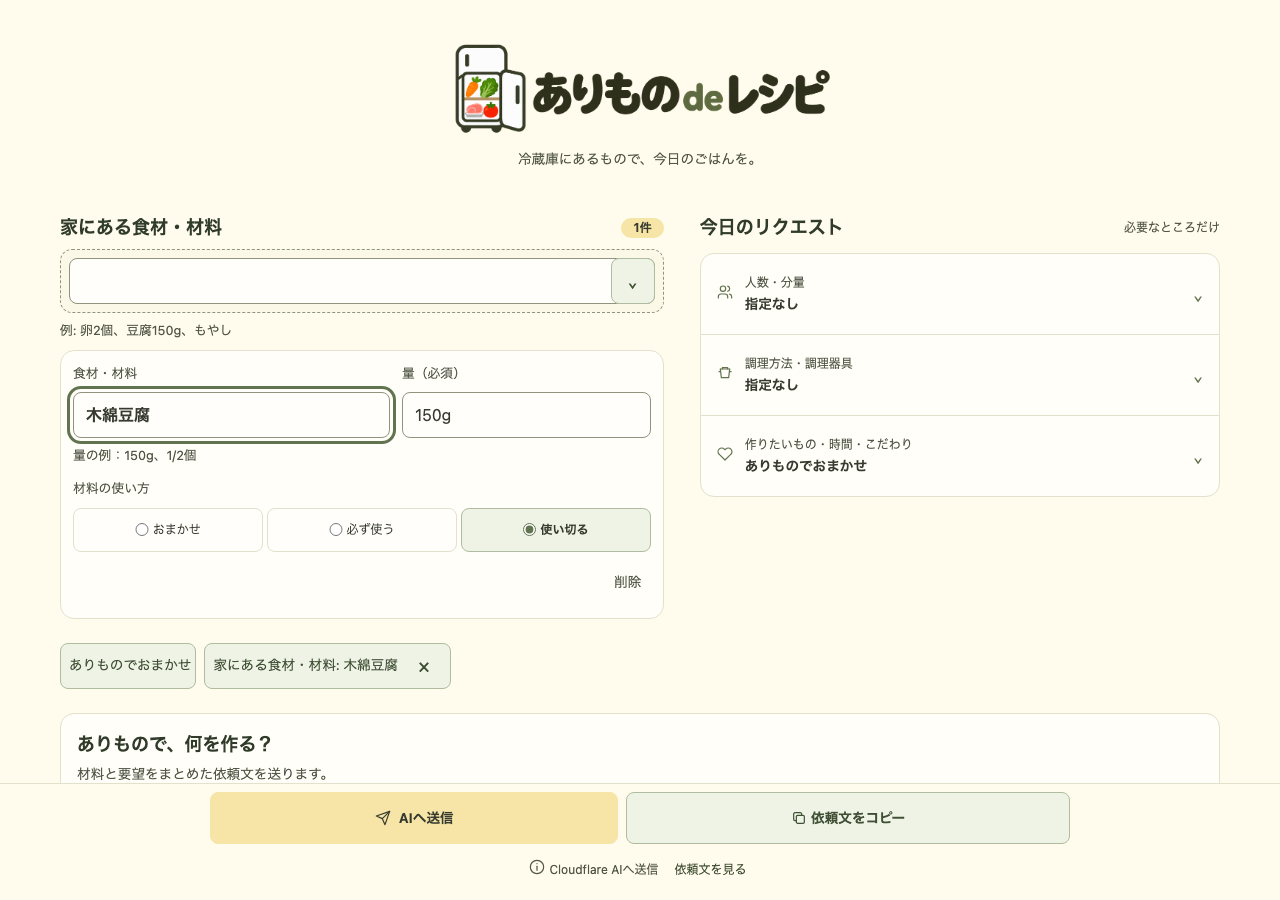
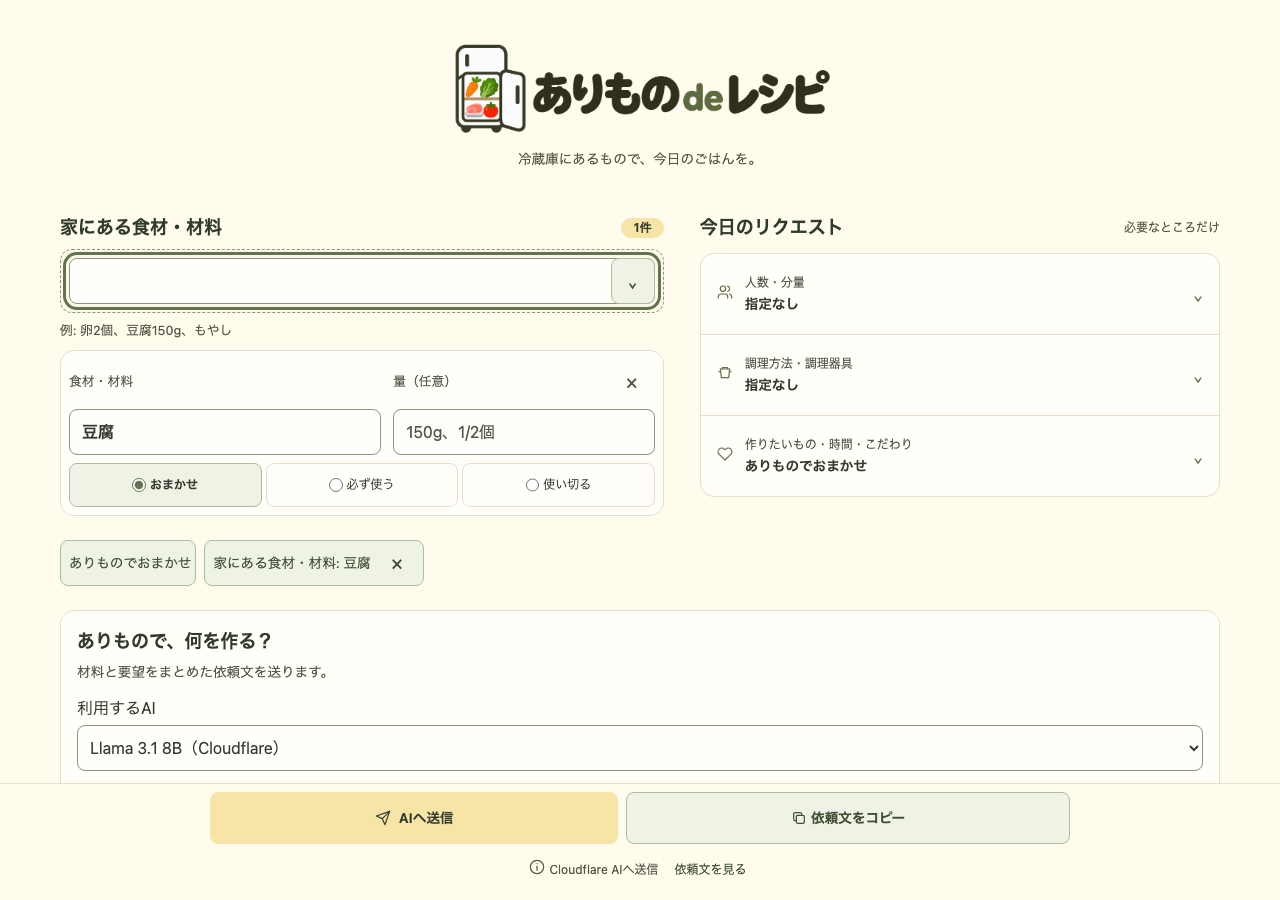
Compact material cards with quantity placeholders and corner removal

diff --git a/tests/e2e/form-layout.spec.ts b/tests/e2e/form-layout.spec.ts
@@ -18,26 +18,47 @@ for (const [width, fontSize] of [
     const card = page.getByTestId(/^material-card-/);
     const name = card.getByTestId("combo-pill-label-materials");
     const amount = card.getByTestId(/^material-amount-/);
-    const hint = card.getByTestId(/^material-example-/);
-    await expect(hint).toHaveText("量の例：150g、1/2個");
-    await expect(amount).toHaveAccessibleDescription(/量の例：150g、1\/2個/);
-    await expect(amount).not.toHaveAttribute("placeholder");
+    await expect(amount).toHaveAttribute("placeholder", "150g、1/2個");
+    await expect(amount).toHaveAccessibleName("量（任意）");
+    expect(
+      await amount.evaluate((input) => {
+        const styles = getComputedStyle(input);
+        const canvas = document.createElement("canvas");
+        const context = canvas.getContext("2d");
+        if (!context) throw new Error("Canvas text measurement must be available");
+        context.font = styles.font;
+        // Native input clientWidth differs between engines; use its rendered border box.
+        const available =
+          input.getBoundingClientRect().width -
+          Number.parseFloat(styles.borderLeftWidth) -
+          Number.parseFloat(styles.borderRightWidth) -
+          Number.parseFloat(styles.paddingLeft) -
+          Number.parseFloat(styles.paddingRight);
+        return context.measureText(input.getAttribute("placeholder") ?? "").width <= available;
+      }),
+    ).toBe(true);
     const nameBox = await name.boundingBox();
     const amountBox = await amount.boundingBox();
     if (!nameBox || !amountBox) throw new Error("Both material fields must be visible");
     expect(Math.abs(nameBox.height - amountBox.height)).toBeLessThanOrEqual(1);
     expect(nameBox.height).toBeGreaterThanOrEqual(46);
+    const cardBox = await card.boundingBox();
+    const remove = card.getByRole("button", { name: "豆腐を材料から削除", exact: true });
+    const removeBox = await remove.boundingBox();
+    if (!cardBox || !removeBox) throw new Error("Card and delete target must be visible");
+    await expect(remove).toHaveText("×");
+    expect(removeBox.width).toBeGreaterThanOrEqual(44);
+    expect(removeBox.height).toBeGreaterThanOrEqual(44);
+    expect(removeBox.y - cardBox.y).toBeGreaterThanOrEqual(0);
+    expect(removeBox.y - cardBox.y).toBeLessThanOrEqual(12);
+    expect(cardBox.x + cardBox.width - removeBox.x - removeBox.width).toBeLessThanOrEqual(12);
+    expect(removeBox.y + removeBox.height).toBeLessThanOrEqual(nameBox.y);
+    if (fontSize === 16) expect(cardBox.height).toBeLessThanOrEqual(180);
     if (amountBox.x > nameBox.x + nameBox.width) {
       expect(Math.abs(nameBox.y - amountBox.y)).toBeLessThanOrEqual(1);
     } else {
       expect(amountBox.y).toBeGreaterThanOrEqual(nameBox.y + nameBox.height);
     }
-    expect(await hint.evaluate((element) => element.scrollWidth <= element.clientWidth + 1)).toBe(
-      true,
-    );
-    expect(await hint.evaluate((element) => element.scrollHeight <= element.clientHeight + 1)).toBe(
-      true,
-    );
     await amount.fill("150g");
     await name.click();
     const edit = page.getByTestId("combo-pill-edit-materials");
@@ -48,7 +69,7 @@ for (const [width, fontSize] of [
     await pressCommittedEnter(edit);
     await expect(amount).toHaveValue("150g");
     await expect(name).toHaveText("木綿豆腐");
-    await expect(hint).toBeVisible();
+    await expect(amount).toHaveAttribute("placeholder", "150g、1/2個");
     expect(await page.evaluate(() => document.documentElement.scrollWidth <= innerWidth)).toBe(
       true,
     );

diff --git a/src/ui.ts b/src/ui.ts
@@ -115,13 +115,11 @@ function syncMaterialRequestValidationState(state: RecipeSnapshot): void {
 
     if (input) {
       input.required = request.usage === "use-up";
-      input.setAttribute(
-        "aria-describedby",
-        `materialAmountHint-${request.id}${message ? ` materialAmountError-${request.id}` : ""}`,
-      );
       if (message) {
+        input.setAttribute("aria-describedby", `materialAmountError-${request.id}`);
         input.setAttribute("aria-invalid", "true");
       } else {
+        input.removeAttribute("aria-describedby");
         input.removeAttribute("aria-invalid");
       }
     }
@@ -206,11 +204,10 @@ function renderMaterialUsePanel(state: RecipeSnapshot): void {
         .map((request) => {
           const amountLabel = request.usage === "use-up" ? "量（必須）" : "量（任意）";
           const amountId = `materialAmount-${request.id}`;
-          const amountHintId = `materialAmountHint-${request.id}`;
           const errorId = `materialAmountError-${request.id}`;
           const errorMessage = errors.get(request.id) ?? "";
           const invalidAttributes = errorMessage ? ' aria-invalid="true"' : "";
-          const describedBy = ` aria-describedby="${amountHintId}${errorMessage ? ` ${errorId}` : ""}"`;
+          const describedBy = errorMessage ? ` aria-describedby="${errorId}"` : "";
 
           return `
             <fieldset class="material-request-row" data-material-request-id="${request.id}" data-testid="material-card-${request.id}">
@@ -229,6 +226,7 @@ function renderMaterialUsePanel(state: RecipeSnapshot): void {
                     value="${escapeHtml(request.useUpAmount)}"
                     data-material-amount-for="${request.id}"
                     data-testid="material-amount-${request.id}"
+                    placeholder="150g、1/2個"
                     autocomplete="off"
                     ${request.usage === "use-up" ? "required" : ""}
                     aria-errormessage="${errorId}"
@@ -237,9 +235,8 @@ function renderMaterialUsePanel(state: RecipeSnapshot): void {
                   />
                 </label>
               </div>
-              <p id="${amountHintId}" class="field-hint material-amount-hint" data-testid="material-example-${request.id}">量の例：150g、1/2個</p>
               <fieldset class="material-usage-fieldset">
-                <legend>材料の使い方</legend>
+                <legend class="visually-hidden">材料の使い方</legend>
                 ${renderRadioOptions(
                   `materialUsage-${request.id}`,
                   materialUsageOptions,
@@ -256,9 +253,7 @@ function renderMaterialUsePanel(state: RecipeSnapshot): void {
                   data-testid="material-use-up-error-${request.id}"
                   ${errorMessage ? 'role="alert"' : "hidden"}
                 >${escapeHtml(errorMessage || USE_UP_AMOUNT_REQUIRED_MESSAGE)}</p>
-              <div class="material-card-actions">
-                <button id="materialRemove-${request.id}" type="button" class="material-delete-button" data-testid="combo-pill-remove-materials" data-remove-material="${escapeHtml(request.name)}" aria-label="${escapeHtml(request.name)}を材料から削除">削除</button>
-              </div>
+              <button id="materialRemove-${request.id}" type="button" class="material-delete-button" data-testid="combo-pill-remove-materials" data-remove-material="${escapeHtml(request.name)}" aria-label="${escapeHtml(request.name)}を材料から削除"><span aria-hidden="true">×</span></button>
             </fieldset>
           `;
         })

diff --git a/src/styles.css b/src/styles.css
@@ -384,9 +384,10 @@ h3 {
   border-radius: var(--radius-md);
 }
 .material-request-row {
+  position: relative;
   min-inline-size: 0;
   margin: 0;
-  padding: var(--space-3);
+  padding: var(--space-2);
   background: var(--surface-solid);
   border: 1px solid var(--line);
   border-radius: var(--radius-lg);
@@ -401,7 +402,7 @@ h3 {
   display: grid;
   grid-template-rows: auto 1fr;
   align-content: start;
-  gap: var(--space-2);
+  gap: var(--space-1);
   min-inline-size: min(100%, 7rem);
   color: var(--muted);
   font-size: 0.8rem;
@@ -410,7 +411,15 @@ h3 {
   flex: 3 1 7rem;
 }
 .material-amount-field {
-  flex: 2 1 7rem;
+  flex: 2 1 8rem;
+  min-inline-size: min(100%, 8rem);
+}
+.material-name-field > label,
+.material-amount-field > span {
+  display: flex;
+  align-items: center;
+  min-block-size: 46px;
+  padding-inline-end: 46px;
 }
 .material-name-host {
   min-inline-size: 0;
@@ -447,9 +456,9 @@ h3 {
   text-align: start;
   font-weight: 700;
 }
-.material-amount-hint {
-  margin: var(--space-2) 0 var(--space-3);
-  overflow-wrap: anywhere;
+.material-amount-input::placeholder {
+  color: var(--muted);
+  opacity: 1;
 }
 .material-usage-fieldset {
   min-inline-size: 0;
@@ -457,17 +466,14 @@ h3 {
   padding: 0;
   border: 0;
 }
-.material-usage-fieldset legend {
-  padding: 0;
-  color: var(--muted);
-  font-size: 0.8rem;
-}
-.material-card-actions {
-  display: flex;
-  justify-content: flex-end;
-  margin-block-start: var(--space-2);
-}
 .material-delete-button {
+  position: absolute;
+  inset-block-start: var(--space-2);
+  inset-inline-end: var(--space-2);
+  display: grid;
+  place-items: center;
+  inline-size: 46px;
+  block-size: 46px;
   min-inline-size: 46px;
   min-block-size: 46px;
   padding: var(--space-1) var(--space-2);
@@ -475,7 +481,7 @@ h3 {
   border-radius: var(--radius-sm);
   background: transparent;
   color: var(--muted);
-  font-size: 0.85rem;
+  font-size: 1.25rem;
 }
 .material-delete-button:hover {
   color: var(--error);

diff --git a/tests/e2e/input.spec.ts b/tests/e2e/input.spec.ts
@@ -159,6 +159,8 @@ test("読み検索とIME変換中の絞り込みが更新される", async ({ pa
   await page.getByLabel("一緒に出す料理に合わせたい").check();
   await pairingInput.fill("ぎょうざ");
   await expect(comboOption(page, "pairingTargets", "餃子")).toBeVisible();
+  // The previous material commits on blur; settle its layout before another tap.
+  await expect(comboPillLabels(page, "materials")).toHaveText("たまご");
 
   await pairingInput.fill("はんばーぐ");
   await expect(comboOption(page, "pairingTargets", "ハンバーグ")).toBeVisible();

diff --git a/docs/testing/form-ui-verification-2026-10-18.md b/docs/testing/form-ui-verification-2026-10-18.md
@@ -4,9 +4,26 @@
 
 材料追加後の量欄は96〜152pxの固定幅で、長いplaceholderを表示しきれなかった。量だけに上部ラベルがあり、名前の編集面と高さ・上端も揃っていなかった。
 
-会話履歴を引き継がない設計担当が、既存HTML/CSSを読む前に利用者の操作から案を作成した。採用した順序は、ラベル付きの材料名と量、全幅の量の例、材料の使い方、右寄せの削除。以前の重なったGridを取り除き、名前と量は同じ46px以上の操作面とした。幅や文字サイズに応じて縦に並び、文字を縮めない。
+会話履歴を引き継がない設計担当が、既存HTML/CSSを読む前に利用者の操作から案を作成した。以前の重なったGridを取り除き、ラベル付きの名前と量を同じ46px以上の操作面とした。幅や文字サイズに応じて縦に並び、文字を縮めない。
 
-名前は既存の「値を押して編集する」動作を保つ。長い名前の入口は1行の省略表示と全文のaccessible name・titleを持ち、編集時はnative inputで全文を扱う。IME、Enter、Escape、blur、材料ID・量の保持は既存の入力処理を使う。量の例は入力中も読め、`aria-describedby`で関連付ける。使い切る場合の量必須という意味と、依頼文の出力規則は変更しない。
+名前は既存の「値を押して編集する」動作を保つ。長い名前の入口は1行の省略表示と全文のaccessible name・titleを持ち、編集時はnative inputで全文を扱う。IME、Enter、Escape、blur、材料ID・量の保持は既存の入力処理を使う。量の例は短い`150g、1/2個`をplaceholderに表示する。量には常設ラベルがあり、エラー時はその説明を`aria-describedby`で関連付ける。使い切る場合の量必須という意味と、依頼文の出力規則は変更しない。
+
+## 材料カードの高さ
+
+常設の量の例と下部の削除を置いた案は、通常文字で1材料が約269pxを占めた。所有者のコンパクト化の要望に合わせ、量の例をplaceholderへ移し、削除を右上の×に変更した。例の別行と削除の行を取り除き、カード内側を8px、ラベルと入力の間を4pxに詰めた。材料の使い方のグループ名は読み上げ用に保持する。
+
+×は名前・量のラベルと同じ46pxの帯へ置き、押せる範囲を46px四方に保つ。入力横の専用列は作らず、名前と量の幅を確保する。ラベルには×と重ならない余白を設ける。量欄の基準幅は8remとし、例が収まるだけの幅を残す。文字を拡大した場合は2欄を縦に並べる。
+
+| Chromiumの条件 | 変更前の1材料 | 変更後の1材料 |
+| --- | ---: | ---: |
+| 320px・文字16px | 268.7px | 166px |
+| 390px・文字16px | 268.7px | 166px |
+| 1280px・文字16px | 268.7px | 166px |
+| 360px・文字32px | 545.7px | 373.2px |
+
+通常のスマートフォン幅では約38%低くなった。320pxのplaceholderは必要幅88.9pxに対して内容幅109px以上で、全文表示できる。変更前後の実測・画面は`/tmp/arimono-compact-before/`と`/tmp/arimono-compact-after/`に保存した。
+
+Firefoxのnative inputでは`clientWidth`からpaddingを引くと二重控除になるため、検査は実際のborder-box幅からborderとpaddingを一度ずつ引く。画像でも全文表示を確認し、この測定式で6構成の78件が成功した。
 
 ## 全体監査と修正
 
@@ -24,22 +41,28 @@
 
 ## 検証
 
-追加した`form-layout.spec.ts`は13ケースを6プロファイルで実行する。編集欄の整列・高さ、例の表示と関連付け、編集後の量保持、編集途中の削除、文字拡大、人数・モデル・操作、最後のフッターとfocusを検査する。既存テストは削除せず、Firefox・WebKit系の実行対象にも追加した。
+追加した`form-layout.spec.ts`は13ケースを6プロファイルで実行する。編集欄の整列・高さ、placeholderの全文表示、通常文字のカード高180px以下、右上×の位置と44px以上の操作領域、編集後の量保持、編集途中の削除、文字拡大、人数・モデル・操作、最後のフッターとfocusを検査する。既存テストは削除せず、Firefox・WebKit系の実行対象にも追加した。
 
 独立したコードレビューでは、新しい削除位置に合わせた既存Tab順テストの更新と、名前編集から前カードへShift+Tabした後のfocus消失を指摘された。後者はChromiumの録画で再現し、材料IDで削除ボタンのfocusを復元する修正を追加した。再レビューで指摘の解消を確認した。Safariがnative Tabでbuttonを飛ばす設定も扱い、実際に到達した前カード内のfocusを保持することと、明示的に削除ボタンへ移った場合の保持を検証する。
+
+コンパクト化後の初回全体検証は681成功・1失敗だった。iPhone相当の読み検索・IMEテストで、未確定材料の120ms後のblur確定と、次の器具欄を開くタップが重なった。保存traceではタップのaction snapshotからafter snapshotまでの約19msの間に材料カードが追加され、器具欄は閉じたままだった。テストに材料ピルの確定確認を追加し、再描画が終わってから次へ進む。既存の操作・assertは保ち、sleep・強制クリック・retryは加えていない。変更後の同ケース8回連続実行は成功した。失敗時のtrace・context・全体結果は`/tmp/arimono-compact-full-failure/`、再検証ログは`/tmp/arimono-compact-ime-repeat-2.log`に保存した。
 
 | コマンド・確認 | 終了コード | 結果 |
 | --- | ---: | --- |
 | `CI=1 ASDF_NODEJS_VERSION=26.4.0 npm run check` | 0 | format・lint・typecheck・build・unit・structure・E2E成功。682 passed、失敗・skip・flaky各0 |
 | 全体チェックのE2E結果JSON | 0 | Chromium/Pixel各131、Firefox/WebKit/iPhone/iPad各105。新しいフォーム13ケースを各構成で実行 |
 | `ASDF_NODEJS_VERSION=26.4.0 npm run test:e2e -- --grep '名前編集から前カード'` | 0 | focus回帰テスト6構成成功 |
-| 録画runner、390×900・1280×900 | 各0 | QA・recording・cleanup全てpassed。名前と量の整列、量の例、名前変更と量保持、実Clipboard APIの全文一致を確認。AIへのPOST・pageerror 0 |
+| `CI=1 ASDF_NODEJS_VERSION=26.4.0 npm run test:e2e -- tests/e2e/form-layout.spec.ts` | 0 | コンパクト化後の13ケース×6構成、78 passed、失敗・skip・flaky各0 |
+| `CI=1 ASDF_NODEJS_VERSION=26.4.0 npm run test:e2e -- tests/e2e/input.spec.ts --project=mobile-safari --grep '読み検索とIME変換中' --repeat-each=8` | 0 | 材料確定を待つ既存IMEテストが8回成功 |
+| 録画runner、390×900・1280×900 | 各0 | QA・recording・cleanup全てpassed。placeholder全文、1〜3材料が各180px以下、整列・量保持・右上×・実Clipboard APIの全文一致を確認。AIへのPOST・pageerror 0 |
 | 独立監査の再現・修正後の同じShift+Tab操作 | 修正前1、修正後0 | 修正前はfocusがBODYへ落ちる。修正後は前カードの削除ボタンを保持。録画検証成功 |
 | 動画検査 | 各0 | ffprobeの寸法・長さ検査、ffmpegのフレームdecode、画面・動画フレームの目視を確認 |
 
-全体チェックのログは`/tmp/arimono-form-final-check-4.log`、結果は`playwright-report/results.json`に保存した。途中の検査でFirefoxが削除ボタンを43.999969pxと計測したため、既存の44px以上という検査を維持し、削除ボタンも入力と同じ46px以上に揃えた。再実行が上表の結果である。
+コンパクト化後の最終全体チェックのログは`/tmp/arimono-compact-full-check-2.log`、結果は`playwright-report/results.json`に保存した。初回のフォーム見直しでFirefoxが44pxの削除ボタンを43.999969pxと計測したため、既存の44px以上という検査を維持し、右上の×も入力と同じ46px以上に揃えた。材料確定待機を加えた後の全体再実行が上表の結果である。
 
-最終の録画・画面・結果・短い報告は`/tmp/arimono-material-verified-mobile/`と`/tmp/arimono-material-verified-desktop/`の`README.md`・`result.json`にある。フローは`/tmp/arimono-material-final-flow.mjs`。同じ録画実行の[スマートフォン画像](../media/form-ui-mobile.png)と[PC画像](../media/form-ui-desktop.png)をリポジトリに保存した。動画はローカルに保持する。
+最終の録画・画面・結果・短い報告は`/tmp/arimono-compact-verified-mobile/`と`/tmp/arimono-compact-verified-desktop/`の`README.md`・`result.json`にある。フローは`/tmp/arimono-compact-final-flow.mjs`。同じ録画実行の[スマートフォン画像](../media/form-ui-mobile.png)と[PC画像](../media/form-ui-desktop.png)をリポジトリに保存した。動画はローカルに保持する。
+
+コンパクト化後も設計担当が320px・390pxの画面を確認し、別のコードレビュー担当が削除・IME・blur・focusとARIAの接続を確認した。追加の修正必須指摘はなかった。
 
 独立監査のShift+Tabの最終成功記録は`/tmp/arimono-ui-audit-20261018/run-005/`。設計担当・コードレビュー担当は読み取り専用で確認し、独自のテスト再実行はしていない。別のUI監査担当は実ブラウザーの録画と実測で修正を確認した。
 

diff --git a/DESIGN.md b/DESIGN.md
@@ -63,17 +63,23 @@ application and domain modules, not this visual specification.
   1.16fr / 1fr columns with a 36px gap. Place the shared answer below them.
 - Keep material input and candidate button before specified values. Material
   cards display latest first; the domain order and prompt order remain unchanged.
-- Each material has two visibly labelled editing fields, a full-width amount
-  example, three native usage choices, and a separate bottom-right delete action.
+- Each material has two visibly labelled editing fields, the amount example
+  `150g、1/2個` as a placeholder, three native usage choices and a top-right ×.
   Name and amount controls share a 46px minimum height and aligned top edges.
-  Give the two fields a 7rem minimum basis, with 3:2 flexible growth, and let them
+  Give name and amount a 7rem and 8rem minimum basis with 3:2 flexible growth, and let them
   stack when text size or available width requires it. Never shrink their text.
+- Keep cards compact with 8px padding and a 4px label-to-input gap. Reserve a
+  46px label band and 46px end padding for the × target so it cannot overlap
+  labels or inputs, including when fields stack. The × glyph is 1.25rem; its
+  button retains a 46px touch target without a separate action row. Keep the
+  usage fieldset legend visually hidden while preserving its accessible name.
 - Name buttons keep a single line with ellipsis and the full accessible name and
   title; activating them opens the existing native text editor. All text inputs
-  remain at least 1rem. Long examples belong in wrapping, described help text,
-  including the other combo fields and supplemental notes, rather than placeholders.
+  remain at least 1rem. The short amount placeholder must fit in full at 320px.
+  Long examples in other combo fields and supplemental notes use wrapping,
+  described help text.
 - Usage radios wrap by their content width. Preserve native checked indicators
-  as well as sage. The separate delete action uses the same 46px minimum target.
+  as well as sage. Preserve the amount error's described relationship when invalid.
 - Request options are grouped in this order: servings; methods/tools; intent,
   time and preferences. Closed sections show their current specified values.
 - Use 44px minimum interactive targets, 46px ordinary controls, 52px primary

diff --git a/docs/testing/ux-test-matrix.md b/docs/testing/ux-test-matrix.md
@@ -14,7 +14,7 @@ Structure tests are mechanical guardrails. They are not proof of runtime behavio
 | 指定値からレシピ依頼文を生成する | required | required for key user flow | source-of-truth guard |
 | こだわり項目を開閉して入力できる | optional | required | stable hook guard |
 | 材料の使い方を指定できる | required for validation | required | stable hook guard |
-| 材料名と量の編集欄が揃い、量の例が入力中も欠けずに読める | no | required all 6 profiles, 320/390/1280px, 16/20/32px text, rename and separate delete | associated labels and help |
+| 材料名と量が揃い、未入力時の量例が見切れず、カードがコンパクト | no | required all 6 profiles, 320/390/1280px, 16/20/32px text, placeholder width, normal card height <=180px, top-right delete target, rename | associated labels and error help |
 | 文字拡大時に人数・モデル・主操作が欠けず、最終footerを固定操作が隠さない | no | required all 6 profiles, 320/360/1280px and 200% text | no |
 | 作りたい料理と単一役割の確定後に指定値の編集へfocusを渡す | no | required all 6 profiles, Enter then edit | no |
 | 作者リンクとプライバシーを狭い画面でも操作でき、モーダル内のTab循環・背景操作禁止・閉じた後のfocusと位置を保持する | no | required all 6 profiles, 320/390/1280px footer clearance | stable hooks |

diff --git a/README.md b/README.md
@@ -62,7 +62,7 @@ npm run build  # dist/ に静的ファイルを出力
 
 [公開前レビューと改善記録](docs/release-readiness-2026-10-18.md)には、確認した範囲、修正内容、本番AIを有効にする前の残作業をまとめています。コードのマージだけでは本番のD1・secret・Free契約設定やデプロイは完了しません。
 
-[フォームの設計・画面と検証](docs/testing/form-ui-verification-2026-10-18.md)には、材料名と量の整列、常設の例、文字拡大時の操作とキーボード改善を記録しています。
+[フォームの設計・画面と検証](docs/testing/form-ui-verification-2026-10-18.md)には、材料名と量の整列、量例とカードの小型化、文字拡大時の操作とキーボード改善を記録しています。
 
 ## 問い合わせ・利用条件
 
